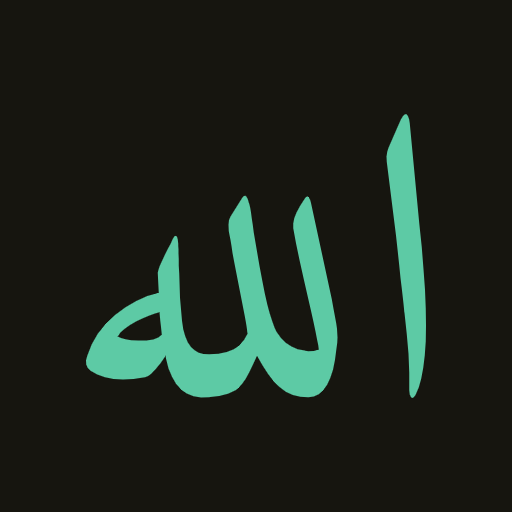
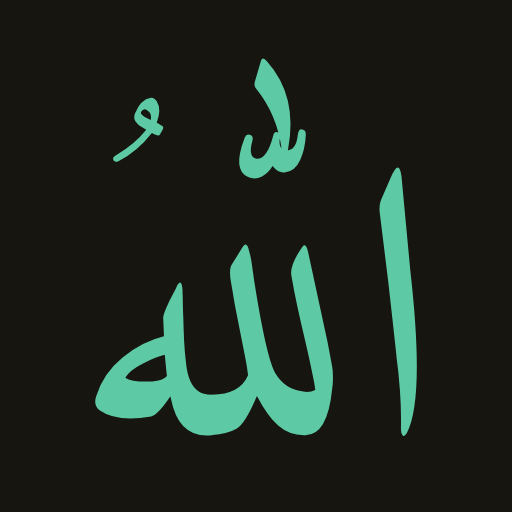
brand: الله gains its marks — shadda, dagger alif, damma
The bare ligature read as unvowelled; the classic mark set is what people
recognise. Base still HarfBuzz-shaped from Amiri Quran; the three marks are
placed by hand because Amiri's mushaf stacking is too tall for a compact
logo. Both favicons and the PWA icons regenerated to match.

diff --git a/apps/web/src/components/Logo.tsx b/apps/web/src/components/Logo.tsx
@@ -1,19 +1,19 @@
-// The site logo: الله written in the site's own Amiri Quran typeface,
-// converted to a vector outline (HarfBuzz shaping of the Allah ligature,
-// exported once at build-design time — see the commit message). An outline
-// rather than live text so it renders identically everywhere, needs no font
-// load, and can never fall back to an unshapen letter sequence. Inline SVG
-// with currentColor so it follows the theme; works with JavaScript off.
+// The site logo: الله with its marks — shadda and dagger alif above the lams,
+// damma on the heh — set in the site's own Amiri Quran typeface. The base is
+// HarfBuzz-shaped; the marks are hand-placed for a compact lockup (Amiri's
+// mushaf-style stacking is far too tall for a header). Frozen as a vector
+// outline: no font load, no fallback rendering, identical everywhere. Inline
+// SVG with currentColor so it follows the theme; works with JavaScript off.
 
 const ALLAH_PATH =
-  'M43.3 84.6Q45.3 84.6 46.1 88.4Q47 92.1 46.1 95.8Q45.3 99.6 43.4 99.7Q31.1 101 28.2 86.1Q28 85.6 28 85.2Q23.3 92.2 20.8 92.7Q8.2 95 1.6 90.4Q-0.8 88.6 0.4 85.1Q3 76.7 10.2 70.8Q17.5 64.8 25.6 62.9L25.3 55.9Q25.3 54.7 27.7 49.6Q29 47.1 29.8 45.6Q30.5 44.1 30.6 43.8Q32.2 41.2 32.5 45.7Q32.5 46.6 32.6 49.1Q32.6 51.7 32.8 56.2Q32.9 60.6 33.1 64.7Q33.3 68.8 33.8 72.8Q34.6 80.7 38.4 83.3Q40.1 84.6 43.3 84.6ZM25.9 69.8Q24.4 70.1 22.4 70.9Q20.4 71.7 17.8 73Q12.7 75.6 11.2 78.3Q13.5 80 21.3 79.7Q25.2 79.5 26.7 77.7Q26.6 77 26.4 75Q26.2 73 25.9 69.8ZM77 83.3Q79.6 83.8 80.5 87.8Q81.3 91.8 80.5 95.7Q79.6 99.7 78.3 99.7Q72.4 99.9 68.1 96.1Q64.2 92.7 60.2 85.1Q58.1 90.1 56.2 93.2Q54.3 96.3 52.6 97.3Q48.9 99.4 43.6 99.6Q40.2 99.9 38.5 95.8Q36.8 92 37.8 88.4Q39 84.6 43.4 84.6Q53.8 84.6 56.9 77.4Q56.9 77.4 56.7 75.9Q56.5 74.3 55.9 71.1L52.7 54.9Q51.7 49.9 51.2 46.5Q50.6 43.1 50.3 41.2Q49.9 37.5 50.9 36.1L55 29.5Q56.5 27.4 57.3 31.2Q57.6 32 58.1 34.7Q58.5 37.4 59.1 41.7Q63.7 71 67.1 76.7Q70.6 82.5 77 83.3ZM79.2 31.3 86.5 65.1Q87.2 68.8 87.7 71.4Q88.2 74 88.4 75.6Q88.5 77 88.5 78.7Q88.5 80.5 88.2 82.5Q86.5 99.7 78.2 99.7Q73.7 99.7 70.9 93.7Q68.1 87.6 70.4 85.1Q72.9 82.3 76 83.2Q79.5 84.1 81.9 82.9Q81.8 81.2 80.8 76.6Q79.9 72 78.2 64.7Q74.7 50.3 73 40.2Q72.4 36.4 76.9 29.9Q78.3 27.6 79.2 31.3ZM110.1 3.6Q113.1 -3.4 114 3.3L117.3 38.5Q122.7 86.1 116 98.9Q115 100.6 114.4 99.7Q113.8 99 113.8 97.3Q114.1 85.2 112.1 70.1Q112.1 69.5 109.1 42.8L105.9 16.8Q105.6 13.9 106.5 11.9Z';
+  'M43.3 118.6Q45.3 118.6 46.1 122.4Q47 126.1 46.1 129.8Q45.3 133.6 43.4 133.7Q31.1 135 28.2 120.1Q28 119.6 28 119.2Q23.3 126.2 20.8 126.7Q8.2 129 1.6 124.4Q-0.8 122.6 0.4 119.1Q3 110.7 10.2 104.8Q17.5 98.8 25.6 96.9L25.3 89.9Q25.3 88.7 27.7 83.6Q29 81.1 29.8 79.6Q30.5 78.1 30.6 77.8Q32.2 75.2 32.5 79.7Q32.5 80.6 32.6 83.1Q32.6 85.7 32.8 90.2Q32.9 94.6 33.1 98.7Q33.3 102.8 33.8 106.8Q34.6 114.7 38.4 117.3Q40.1 118.6 43.3 118.6ZM25.9 103.8Q24.4 104.1 22.4 104.9Q20.4 105.7 17.8 107Q12.7 109.6 11.2 112.3Q13.5 114 21.3 113.7Q25.2 113.5 26.7 111.7Q26.6 111 26.4 109Q26.2 107 25.9 103.8ZM77 117.3Q79.6 117.8 80.5 121.8Q81.3 125.8 80.5 129.7Q79.6 133.7 78.3 133.7Q72.4 133.9 68.1 130.1Q64.2 126.7 60.2 119.1Q58.1 124.1 56.2 127.2Q54.3 130.3 52.6 131.3Q48.9 133.4 43.6 133.6Q40.2 133.9 38.5 129.8Q36.8 126 37.8 122.4Q39 118.6 43.4 118.6Q53.8 118.6 56.9 111.4Q56.9 111.4 56.7 109.9Q56.5 108.3 55.9 105.1L52.7 88.9Q51.7 83.9 51.2 80.5Q50.6 77.1 50.3 75.2Q49.9 71.5 50.9 70.1L55 63.5Q56.5 61.4 57.3 65.2Q57.6 66 58.1 68.7Q58.5 71.4 59.1 75.7Q63.7 105 67.1 110.7Q70.6 116.5 77 117.3ZM79.2 65.3 86.5 99.1Q87.2 102.8 87.7 105.4Q88.2 108 88.4 109.6Q88.5 111 88.5 112.7Q88.5 114.5 88.2 116.5Q86.5 133.7 78.2 133.7Q73.7 133.7 70.9 127.7Q68.1 121.6 70.4 119.1Q72.9 116.3 76 117.2Q79.5 118.1 81.9 116.9Q81.8 115.2 80.8 110.6Q79.9 106 78.2 98.7Q74.7 84.3 73 74.2Q72.4 70.4 76.9 63.9Q78.3 61.6 79.2 65.3ZM110.1 37.6Q113.1 30.6 114 37.3L117.3 72.5Q122.7 120.1 116 132.9Q115 134.6 114.4 133.7Q113.8 133 113.8 131.3Q114.1 119.2 112.1 104.1Q112.1 103.5 109.1 76.8L105.9 50.8Q105.6 47.9 106.5 45.9ZM75.4 22Q75.7 19.6 77 19.9Q78.5 20 78.4 22Q78.1 27.4 76.3 31.3Q74.3 35.7 70.5 35.9Q68.2 36.2 66 33.5Q65.3 34.8 64.3 35.7Q63.3 36.7 62.1 37.4Q59.4 38.8 56.9 37.6Q51 35.2 55.6 23.1Q56.4 21.3 57.8 22Q59 22.5 58.5 24.2Q56.8 30.2 60 30.8Q63.9 31.1 66.2 22.4Q66.6 20.5 67.8 20.9Q69.2 21.2 68.8 22.5Q67.9 27.7 71.4 27.7Q74.8 27.7 75.4 22ZM61.7 -5.7Q62.3 -7.5 63.9 -5.5Q75.5 7.4 71.8 27.2Q71.7 28.3 70.6 28.5Q69.6 28.7 69.4 27.2Q67.7 14.4 60 4.8Q59 3.7 59.4 2.2ZM20.7 8.1Q21.9 7.9 22.9 9.4Q24.8 12.4 22.9 17.4Q23.6 17.7 23.9 18Q24.3 18.3 24.7 18.4Q25.7 18.8 25.1 20L24.2 21.6Q23.8 22.4 23.1 22.1Q22.3 21.9 21.1 21.2Q15.6 28.2 8.8 31.6Q7.4 32.4 6.8 31.4Q6.2 30.2 7.9 29.4Q14.8 25.3 19 20Q16.7 18.8 15.7 17.8Q13.9 16.1 14.8 14Q16.9 8.7 20.7 8.1ZM19.8 13.1Q18.1 11.5 17.1 13.3Q16.7 13.8 17.4 14.4Q18.2 15.2 20.7 16.4Q21.1 14 19.8 13.1Z';
 
-export const ALLAH_VIEWBOX = '0 0 119.7 100';
+export const ALLAH_VIEWBOX = '0 0 119.7 134.0';
 
-export function LogoMark({ height = 20 }: { height?: number }) {
+export function LogoMark({ height = 24 }: { height?: number }) {
   return (
     <svg
-      width={height * 1.197}
+      width={height * 0.8933}
       height={height}
       viewBox={ALLAH_VIEWBOX}
       aria-hidden="true"
